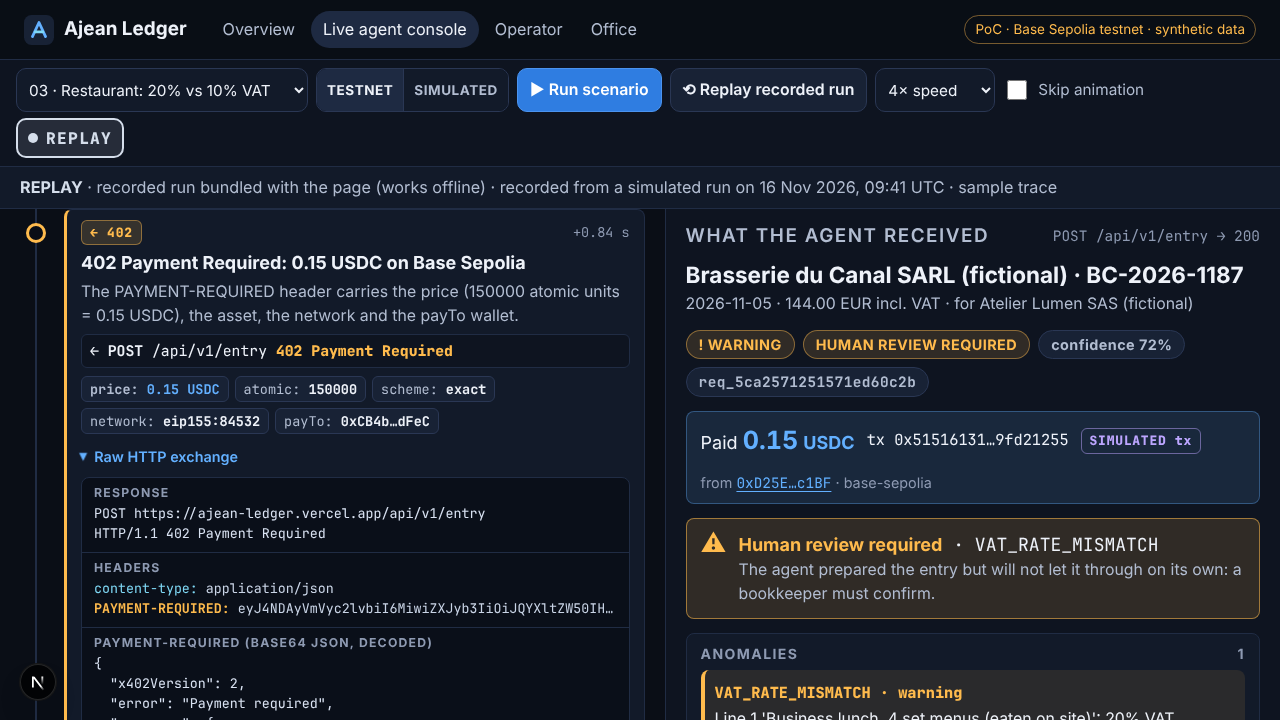
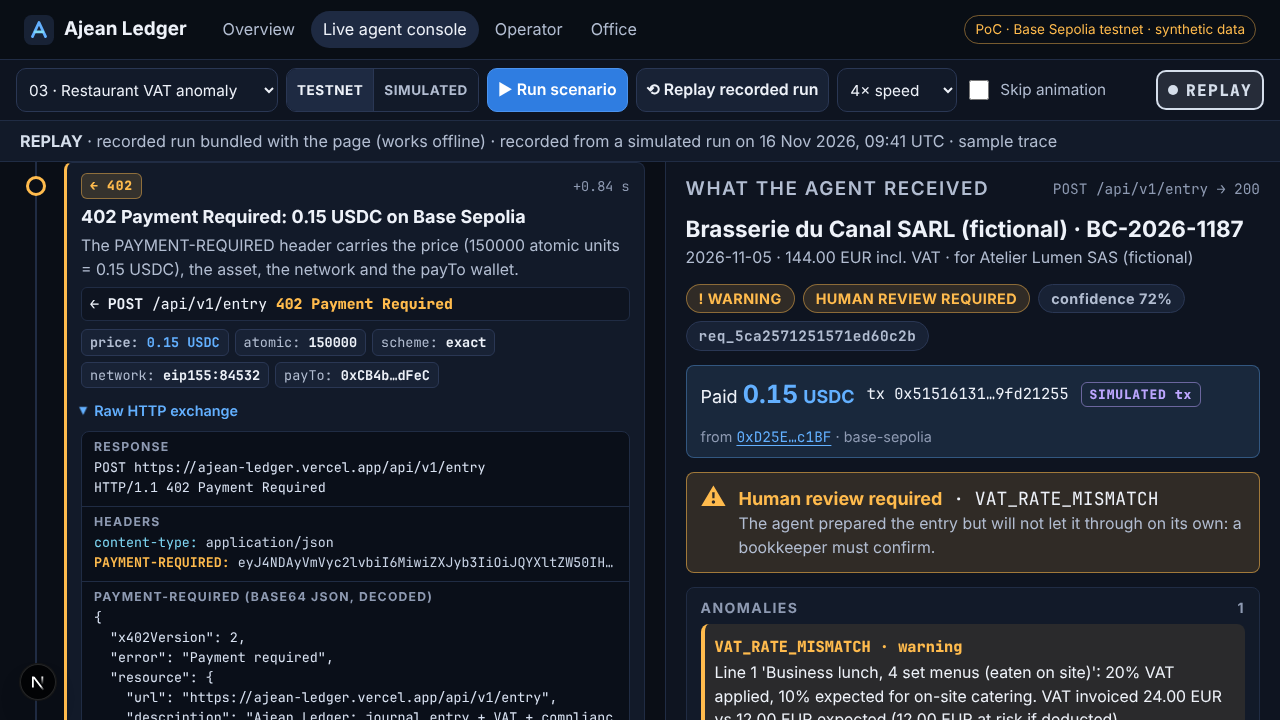
feat(engine): Phase 1 accounting engine — PCG/VAT rules, e-invoicing mentions, Factur-X/UBL/bank parsers, audit viewpoints, 13 fixtures
Claude-Session: https://claude.ai/code/session_017HXARNacDJcRScBQcpjH6w

diff --git a/lib/console/scenarios.ts b/lib/console/scenarios.ts
@@ -10,9 +10,9 @@ export interface Scenario {
 }
 
 export const SCENARIOS: Scenario[] = [
-  { id: "01", label: "01 · Office supplies (compliant)", takeaway: "Clean invoice → posted with no human in the loop." },
-  { id: "03", label: "03 · Restaurant: 20% vs 10% VAT", takeaway: "The VAT mistake a human would have missed → review flag." },
-  { id: "04", label: "04 · EU SaaS: reverse charge", takeaway: "German supplier, no VAT invoiced → self-assessed VAT, net cost zero." },
+  { id: "01", label: "01 · Office supplies, compliant", takeaway: "Clean invoice → posted with no human in the loop." },
+  { id: "03", label: "03 · Restaurant VAT anomaly", takeaway: "The VAT mistake a human would have missed → review flag." },
+  { id: "04", label: "04 · EU SaaS, reverse charge", takeaway: "German supplier, no VAT invoiced → self-assessed VAT, net cost zero." },
   { id: "06", label: "06 · Duplicate of invoice 01", takeaway: "Same invoice sent twice → DUPLICATE_SUSPECTED, not posted." },
 ];
 

diff --git a/app/globals.css b/app/globals.css
@@ -628,14 +628,15 @@ pre,
   max-width: 100%;
 }
 #scenario {
-  width: 292px;
+  width: 262px;
 }
 .controls .btn {
-  padding: 8px 12px;
+  padding: 8px 10px;
   font-size: 0.88rem;
 }
 .controls .mode-badge {
   padding: 6px 10px;
+  margin-left: auto;
 }
 @media (max-width: 1440px) {
   .controls .mode-sub {

diff --git a/docs/ENGINE.md b/docs/ENGINE.md
@@ -1,0 +1,217 @@
+# Ajean Ledger — accounting engine (Phase 1)
+
+Framework-free TypeScript in `engine/`. Same functions are used by the paid API, the MCP server, the demo agent and the CLI.
+**Rules first, LLM second:** structured inputs (JSON, Factur-X, UBL, bank transactions) are processed deterministically, with no network call. The LLM is only used for unstructured PDFs/images and for line descriptions the keyword classifier cannot place. In both cases the rules engine re-validates the LLM output.
+
+> Proof of concept on synthetic data. Not a substitute for a chartered accountant's review.
+
+## 1. Public API (`import … from "@/engine"`)
+
+| Export | Purpose |
+|---|---|
+| `createEntry(input, ctx?) → EntryResult` | `POST /api/v1/entry`: entry + VAT + compliance + anomalies + explanation |
+| `checkInvoice(input, ctx?) → CheckResult` | `POST /api/v1/invoice/check`: compliance + VAT consistency (no entry) |
+| `auditEntries(items, ctx?) → AuditResult` | `POST /api/v1/audit`: up to 50 items, two expert viewpoints |
+| `parseInput(input, ctx?)` | Parsed `{ invoice? , transaction?, candidate_invoices?, method, confidence }` |
+| `fingerprint(invoice)` | `InvoiceFingerprint` to store in history for duplicate detection |
+| `ENGINE_VERSION` (`"0.1.0"`), `DEMO_PROFILE` | Version; default client "Atelier Lumen SAS (fictional)", SIREN 902417351 (fictional, Luhn-valid) |
+| `EngineError {code, message, details}`, `ENGINE_ERROR_CODES` | Machine-readable errors (see §8) |
+| `EXPENSE_CATEGORIES`, `CATEGORY_IDS`, `classifyLine` | Category list and deterministic classifier |
+| `LEGAL_BASES`, `publicLegalBasis(id)` | Curated legal-basis table (references hidden until reviewed) |
+| `createAnthropicAdapter()` | `LlmAdapter`, or `undefined` when `ANTHROPIC_API_KEY` is absent |
+
+`ctx` (`EngineContext`): `profile` (default `DEMO_PROFILE`), `history` (fingerprints), `llm` (adapter), `materiality_threshold` (audit).
+
+### Contract changes (additive only)
+- `InvoiceFingerprint.document_type?` (optional): invoices and credit notes are never flagged as duplicates of each other.
+- `EngineContext.materiality_threshold?` (optional): overrides the audit materiality.
+- No field was renamed or removed. `EntryResult.review_reasons` holds machine-readable codes (list in §6).
+
+## 2. Pipeline
+
+```
+input ─► parseInput (zod / pdf-lib + CII / UBL / bank / LLM)
+      ─► classify each line (keywords → hint → LLM if uncertain)
+      ─► fixed-asset test (IT equipment ≥ EUR 500 excl. VAT per unit)
+      ─► VAT regime + deductibility per line
+      ─► entry builder (integer cents, debits = credits, credit notes reversed)
+      ─► mandatory-mention checks (FR-INV-*, FR-EINV-*)
+      ─► anomalies (rate mismatch, totals, duplicates, …)
+      ─► review reasons, confidence, explanation
+```
+
+Money: all amounts are integer cents internally (`engine/money.ts`). Outputs are numbers with 2 decimals. The invoiced VAT total is split across lines in proportion to the recomputed VAT (largest-remainder method), so the booked VAT always equals the invoiced VAT to the cent. The supplier is credited with the sum of the debits (minus self-assessed VAT), so every entry balances by construction. Any gap with the invoice's TTC is reported (`TOTALS_INCONSISTENT` / `SUPPLIER_TOTAL_MISMATCH`).
+
+## 3. Accounts (PCG, ANC 2014-03 as amended by ANC 2022-06)
+
+| Category id | Account | Label | Default VAT | Deductible |
+|---|---|---|---|---|
+| office_supplies | 6064 | Fournitures administratives | 20% | yes |
+| small_equipment | 6063 | Fournitures d'entretien et de petit équipement | 20% | yes |
+| it_equipment | **2183** if unit price ≥ 500 excl. VAT, else **6063** | Matériel de bureau et matériel informatique | 20% | yes (44562 on 2183) |
+| professional_fees | 6226 | Honoraires | 20% | yes |
+| legal_costs | 6227 | Frais d'actes et de contentieux | 20/0% | yes |
+| training | **6228** | Divers — frais de formation externe | 20% or exempt | yes |
+| seminars | 6185 | Frais de colloques, séminaires, conférences | 20% | yes |
+| travel | 6251 | Voyages et déplacements | 10/20/0% | **no** (passenger transport) |
+| missions | 6256 | Missions (staff accommodation) | 10% | **no** |
+| receptions | 6257 | Réceptions | **10%** (alcohol 20%) | yes (business interest) |
+| gifts | 6234 | Cadeaux à la clientèle | 20/5.5% | only ≤ EUR 73 incl. VAT per unit |
+| rent_premises | 6132 | Locations immobilières | 20/0% | yes |
+| rent_equipment | 6135 | Locations mobilières | 20% | yes |
+| vehicle_rental | 6135 | Locations mobilières — véhicule de tourisme | 20% | **no** |
+| software_subscription | **651** | Redevances pour … solutions informatiques | 20% | yes |
+| maintenance | 6156 | Maintenance | 20% | yes |
+| repairs | 615 | Entretien et réparation | 20/10% | yes |
+| documentation | 6181 | Documentation générale | 20/5.5/2.1% | yes |
+| telecom | 626 | Frais postaux et de télécommunications | 20/0% | yes |
+| advertising | 6231 | Annonces et insertions | 20% | yes |
+| printing | 6236 | Catalogues et imprimés | 20% | yes |
+| utilities | 6061 | Fournitures non stockables | 20/5.5% | yes |
+| insurance | 616 | Primes d'assurances | 0% | — |
+| bank_fees | 627 | Services bancaires et assimilés | 20/0% | yes |
+| *(no match)* | 628 | Divers | — | flagged `CLASSIFICATION_UNCERTAIN` |
+
+Other accounts: `44566` TVA déductible sur autres biens et services, `44562` TVA déductible sur immobilisations, `4452` TVA due intracommunautaire, `401` + auxiliary code, `512000` Banque, `471` Compte d'attente. Journals: `HA` purchases, `BQ` bank.
+
+**Why these choices.**
+- *Training → 6228.* The PCG has no dedicated account for external training purchased from a training body. 6228 ("Divers" under rémunérations d'intermédiaires et honoraires) is the most common practice. 6333 is the employer's *contribution* to vocational training (a tax), not a purchase. 6185 is kept for attendance at conferences and seminars.
+- *SaaS → 651.* Since ANC 2022-06, the label of 651 explicitly covers "solutions informatiques", so it fits software licences and SaaS better than 6135.
+- *Supplier auxiliary code.* `401` + the first significant word of the supplier name (legal forms, articles and "Cabinet/Maître" removed), extended with the next word while shorter than 4 characters, A–Z0–9, at most 8 characters: `401BURO`, `401BOUCHON`, `401FORMACOM`. A caller-supplied `supplier.account_code` takes precedence.
+- *Classifier.* Accent-folded keyword and phrase matching. Phrases count double. A category hint (`category_hint` = category id) gives 0.95, a single matched category 0.9, a clear winner 0.8, ties 0.55, no match 0.3. Below **0.75** the line is "uncertain": with `ctx.llm` the engine asks `classifyExpense`; without it, the line is flagged (`CLASSIFICATION_UNCERTAIN`, human review).
+
+## 4. VAT
+
+Regime detection (`engine/rules/vat.ts`):
+
+| Situation | `vat.regime` | Entry |
+|---|---|---|
+| FR supplier, single 20% rate | `standard` | expense HT / 44566 (or 44562) / 401 TTC |
+| FR supplier, single 10/5.5/2.1% rate | `reduced` | same |
+| several positive rates | `mixed_rates` | same, VAT split per line |
+| EU supplier, no VAT charged | `reverse_charge_intra_eu` | expense HT / 44566 (44562 for assets) **debit** self-assessed VAT / 4452 **credit** same amount / 401 HT. The self-assessment rate is the category's French rate (20% by default). Services: CGI 283-2; goods: intra-community acquisition (256 bis). |
+| FR supplier, all lines 0% | `exempt` | no VAT line. Legal basis: training (261-4-4° a), franchise (293 B) or generic exemption. |
+| non-EU supplier, no VAT | `out_of_scope` | + `NON_EU_SUPPLIER` warning (import VAT / reverse charge to be reviewed) |
+| bank transaction | `out_of_scope` | no VAT on the payment entry |
+
+- **Expected rate per category.** The engine compares each line's rate with the category's expected rates (exceptions: alcohol in a restaurant may be 20%). A mismatch raises `VAT_RATE_MISMATCH` (warning, human review) and states the excess VAT. **The VAT is booked as invoiced, never silently corrected** (ADR-008). Only the VAT legally due is deductible, so the tax-inspector viewpoint recommends reversing the excess or obtaining a corrected invoice.
+- **Non-deductible VAT** (staff accommodation, passenger transport, passenger vehicles, gifts above EUR 73, client under franchise, foreign VAT charged by an EU supplier) is added to the expense line, not to 44566.
+- **Services.** When a French supplier invoices services and has not opted for VAT on debits, `vat.note` reminds the agent that the VAT becomes deductible when the invoice is paid (CGI 269-2-c). The entry still uses 44566 (see open point 4).
+- **Totals.** Line total = qty × unit price (±0.01). Sum of lines = total excl. VAT (±0.01). Recomputed VAT per rate = invoiced VAT (±0.01 per rate). HT + VAT = TTC (±0.01).
+
+## 5. Mandatory mentions (`engine/rules/mentions.ts`)
+
+Severity `error` → `non_compliant`, only `warning` → `warning`, else `compliant`. Checks that do not apply are omitted (e.g. supplier SIREN for a German supplier).
+
+| rule_id | Check | Applies to |
+|---|---|---|
+| FR-INV-NUMBER, FR-INV-DATE | number, issue date | all |
+| FR-INV-SUPPLIER-NAME/-ADDRESS, FR-INV-CUSTOMER-NAME/-ADDRESS | parties | all |
+| FR-INV-SUPPLIER-SIREN | valid SIREN (Luhn) | FR supplier |
+| FR-INV-SUPPLIER-VATID | supplier VAT id (error if VAT charged or intra-EU, warning otherwise) | FR/EU supplier, not franchise |
+| FR-INV-CUSTOMER-VATID | customer VAT id | intra-EU reverse charge |
+| FR-INV-LINES-PRESENT, FR-INV-LINE-DESCRIPTION, FR-INV-LINE-QUANTITY, FR-INV-LINE-UNIT-PRICE | three distinct line mentions | all |
+| FR-INV-VAT-RATE | rate ∈ {20, 10, 5.5, 2.1, 0}% | all |
+| FR-INV-LINE-TOTALS, FR-INV-TOTAL-EXCL-VAT, FR-INV-VAT-AMOUNT, FR-INV-TOTAL-INCL-VAT | totals consistency | all |
+| FR-INV-VAT-EXEMPTION-MENTION | exemption / franchise mention when no VAT | FR supplier, VAT = 0 |
+| FR-INV-REVERSE-CHARGE-MENTION | "Autoliquidation" / "Reverse charge" | intra-EU reverse charge |
+| FR-INV-CREDIT-NOTE-REFERENCE | original invoice number | credit notes |
+| FR-INV-PAYMENT-DUE-DATE, FR-INV-LATE-PENALTIES, FR-INV-RECOVERY-INDEMNITY | C. com. L441-9 / L441-10 (B2B) | FR supplier |
+| FR-EINV-SIREN-BUYER | buyer SIREN | domestic B2B |
+| FR-EINV-OPERATION-NATURE | goods / services / mixed declared and consistent with line kinds (derived "mixed" when lines have both kinds) | domestic B2B |
+| FR-EINV-DELIVERY-ADDRESS | info only (cannot verify "different from billing address") | domestic, goods |
+| FR-EINV-VAT-ON-DEBITS | info only (absence = no option) | domestic, services |
+
+`FR-EINV-*` are `error` for invoices issued **on or after 2026-09-01** and `info` before (open point 1).
+
+## 6. Anomalies, review and confidence
+
+Anomaly codes: `VAT_RATE_MISMATCH`, `VAT_RATE_INVALID`, `TOTALS_INCONSISTENT`, `SUPPLIER_TOTAL_MISMATCH`, `CLASSIFICATION_UNCERTAIN`, `DUPLICATE_SUSPECTED`, `CUSTOMER_MISMATCH`, `FOREIGN_VAT_CHARGED`, `NON_EU_SUPPLIER`, `GIFT_VAT_THRESHOLD` (warning/error); `FIXED_ASSET_CAPITALISED`, `VAT_NOT_DEDUCTIBLE`, `REVERSE_CHARGE_SELF_ASSESSED`, `CASH_BASIS_CLIENT` (info); bank: `UNMATCHED_TRANSACTION`, `PARTIAL_MATCH`.
+
+`human_review_required` is true when `review_reasons` is non-empty. Possible reasons: `NON_COMPLIANT_INVOICE`, any warning/error anomaly code, `CASH_BASIS_CLIENT`, `LLM_EXTRACTION_LOW_CONFIDENCE` (LLM extraction confidence < 0.9), `UNBALANCED_ENTRY` (never expected).
+
+Duplicates (`ctx.history`): same supplier key (SIREN, else VAT id, else normalised name) + same normalised number, **or** same supplier + same total incl. VAT + issue dates within 5 days. Documents of different types never match.
+
+Confidence (deterministic): start 0.98; −0.04 per failed error check, −0.02 per failed warning check; −0.15 per error anomaly, −0.06 per warning anomaly; −0.15 per uncertain line; LLM extraction: min(score, extraction confidence) − 0.05; clamped to [0.05, 0.98].
+
+## 7. Inputs and parsers (`engine/parsers/`)
+
+| `format` | Parser | `extraction_method` |
+|---|---|---|
+| `json` | zod schema (`json.ts`). Credit notes may use negative amounts: they are normalised to positive. | `structured_json` |
+| `facturx` | pdf-lib reads the `factur-x.xml` (or `zugferd-invoice.xml`, `xrechnung.xml`) attachment from the EmbeddedFiles name tree or the catalog `/AF` array; `cii.ts` maps CII (fast-xml-parser) | `facturx_cii` |
+| `ubl` | `ubl.ts` (Invoice / CreditNote). A CII document sent as `ubl` is also accepted. | `ubl` (or `facturx_cii`) |
+| `bank_transaction` | `bank.ts` match: amount = invoice TTC (+0.5), invoice number in label/reference (+0.4), counterparty ≈ supplier (+0.2); matched at ≥ 0.6. BQ entry 401xxx / 512000 (money out) or 512000 / 401xxx (refund); unmatched → 471 + review. | `bank_transaction` |
+| `pdf` / `image` | A PDF is first tried as Factur-X. Otherwise it needs `ctx.llm` (else `LLM_UNAVAILABLE`). The LLM output is validated by the same zod schema and rules. | `llm` (+ `extraction_confidence`) |
+
+CII/UBL mapping notes: operation category from BT-23 (CII `BusinessProcessSpecifiedDocumentContextParameter/ID`, UBL `ProfileID`): `B*` goods, `S*` services, `M*` mixed (French framework codes, open point 6). Notes with subject `PMD` → late-payment penalties, `PMT` → EUR 40 indemnity, others → `legal_mentions`. CII `DueDateTypeCode` 5 → VAT-on-debits option, 72 → no option (open point 6).
+
+`fixtures/11.pdf` is generated by `npx tsx scripts/make-facturx.ts` (fixed dates, byte-reproducible): one visible page plus `factur-x.xml` with `AFRelationship /Alternative`. It is **not** a validated PDF/A-3 (no XMP Factur-X extension, no output intent). That is enough for parsing, but a real issuer would use a certified generator.
+
+LLM adapter (`engine/llm/anthropic.ts`): `@anthropic-ai/sdk`, model `ANTHROPIC_MODEL` (default `claude-sonnet-5-5`), structured JSON output (`output_config.format`), refusal handled. It is created only when `ANTHROPIC_API_KEY` is set. Tests use mock adapters (no network).
+
+## 8. Errors
+
+`EngineError.code` ∈ `INVALID_INPUT` (zod details `[{path, message}]`), `UNSUPPORTED_FORMAT`, `INVALID_PDF`, `FACTURX_XML_NOT_FOUND`, `INVALID_XML`, `LLM_UNAVAILABLE`, `LLM_OUTPUT_INVALID`, `BATCH_TOO_LARGE` (> 50), `EMPTY_BATCH`. `error.toJSON()` gives `{code, message, details?}`.
+
+## 9. Audit (`engine/audit.ts`)
+
+Items: `{ invoice }` (booked by the engine) or `{ entry }` (FEC-like, optional `supplier_key`, `invoice_number`, `total_incl_vat` for duplicates). Checks: duplicates across the batch (and `ctx.history`), unbalanced entries, suspense account 471, weekend dates, round amounts (≥ 1,000 and a multiple of 100), VAT ratio matching no French rate, 44566 used for fixed assets, 4452 ≠ deducted VAT, VAT deducted on excluded expenses (6251/6256).
+
+**Materiality choice.** Statutory-auditor materiality is normally set on annual benchmarks (1–2% of revenue, ~5% of pre-tax profit…). A batch of 50 entries carries none of them, and "1% of the batch total" would give absurd thresholds (EUR 5 on a EUR 500 batch). So the engine uses a **fixed overall materiality of EUR 5,000** for a small SME, which can be overridden with `ctx.materiality_threshold`. It also uses a **performance materiality of 75%** (EUR 3,750) and a **clearly-trivial threshold of 5%** (EUR 250). Entries above performance materiality are findings (`high` above overall materiality). The size of an anomaly relative to "clearly trivial" drives the risk.
+
+Viewpoints: `statutory_auditor` (existence/accuracy: duplicates, unbalanced, suspense, unmatched bank, non-compliant evidence, JET-style round/weekend, materiality) and `tax_inspector` (excess VAT from a wrong rate, deduction at risk on non-compliant invoices, double deduction from duplicates, VAT on excluded expenses, gifts, receptions, reverse-charge reporting, foreign VAT). `overall_risk` is the highest finding risk.
+
+## 10. Fixture 9 — lawyer client (BNC, cash basis): reasoning
+
+Team decision: the **lawyer is the client whose books we keep** (`activity: "bnc"`, `accounting_basis: "cash"`, standard VAT). She receives a fee invoice from a fellow lawyer (postulation fees, 800.00 + 20% VAT).
+- Under BNC, profit is computed on a receipts-expenses basis: the expense is recognised when **paid**, in the receipts-expenses ledger (livre-journal), not when the invoice is received. The engine still proposes the purchase view (6226 Honoraires 800.00 / 44566 160.00 / 401VASSEUR 960.00), because an agent needs a structured result. It flags `human_review_required` with `CASH_BASIS_CLIENT` and explains that the entry is recorded at the payment date (the bank transaction, fixture-12 style, is then the recognition event).
+- VAT: these are services and the supplier has not opted for VAT on debits, so the VAT is deductible when the invoice is paid (`vat.note`).
+- 6226 is used because a fee for a mandate performed for the client firm is an operating expense. If the amount is a *rétrocession d'honoraires* or a *débours* re-billed to the end client, the 2035 presentation differs (see open point 5).
+
+## 11. Fixtures
+
+| # | Scenario | Key result |
+|---|---|---|
+| 01 | Office supplies 20% | 6064 140.00 / 44566 28.00 / 401BURO 168.00, compliant |
+| 02 | #1 without buyer SIREN | non_compliant (FR-EINV-SIREN-BUYER), review |
+| 03 | Restaurant at 20% instead of 10% | 6257 146.00 / 44566 29.20 / 401BOUCHON 175.20, VAT_RATE_MISMATCH (excess 14.60), review |
+| 04 | German consulting services, reverse charge | 6226 2200.00 / 44566 440.00 / 4452 (440.00) / 401KRANICH (2200.00) |
+| 05 | Exempt training | 6228 1200.00 / 401FORMACOM (1200.00), regime exempt |
+| 06 | Duplicate of #1 (history) | DUPLICATE_SUSPECTED, review |
+| 07 | Partial credit note on #1 | 401BURO 54.00 / 6064 (45.00) / 44566 (9.00) |
+| 08 | Laptop 1,450 + mouse 29 | 2183 1450.00 / 6063 29.00 / 44562 290.00 / 44566 5.80 / 401NUMERIA (1774.80) |
+| 09 | Lawyer client, colleague's fees | 6226 800.00 / 44566 160.00 / 401VASSEUR (960.00), CASH_BASIS_CLIENT review |
+| 10 | Mixed goods + services | 6064 190.00 / 6156 210.00 / 44566 80.00 / 401COPILAB (480.00), nature mixed |
+| 11 | Factur-X PDF of #1 | identical to #1, `facturx_cii` |
+| 12 | Bank payment of #1 | BQ 401BURO 168.00 / 512000 (168.00), match score 1 |
+| 13 | UBL 2.1 of #10 (bonus) | identical to #10, `ubl` |
+
+Expected outputs: `fixtures/expected/NN.expected.json`. Tests: `tests/fixtures.test.ts` (each fixture + determinism) and `tests/engine.test.ts` (money/balance, mentions, classification, VAT deductibility, duplicates, parsers/errors, LLM mocks, bank, audit, legal bases).
+
+## 12. CLI
+
+```bash
+npm run engine -- fixtures/03.json                   # EntryResult
+npm run engine -- fixtures/02.json --check           # CheckResult
+npm run engine -- --audit fixtures/01.json fixtures/03.json fixtures/06.json
+npm run engine -- fixtures/11.pdf                    # Factur-X PDF
+npm run engine -- fixtures/13.ubl.xml                # UBL (or CII) XML
+npx tsx scripts/make-facturx.ts                      # regenerate fixtures/11.pdf
+```
+A fixture's `context` (profile, history) is applied. `--no-llm` disables the LLM even when `ANTHROPIC_API_KEY` is set. Engine errors are printed as `{"error": {code, message, details}}` with exit code 2.
+
+## 13. Open points for Ary
+
+1. **Reform mentions: start date.** `FR-EINV-*` (buyer SIREN, operation category, delivery address, VAT-on-debits option) are `error` from 2026-09-01 for all domestic B2B invoices. Please confirm whether they apply from 1 Sept 2026 to every issuer or only once the issuer is in scope of e-invoicing (1 Sept 2027 for SMEs/micro). If the latter, they should be `warning` for SME issuers until then.
+2. **Wrong-rate restaurant invoice (fixture 03).** We book the invoiced VAT (29.20) in 44566 and flag it, without correcting it (ADR-008). Strictly, only 14.60 is deductible. Should the engine instead propose 44566 14.60 + 6257 160.60 and still flag?
+3. **Training account.** 6228 vs 6185 / 618x for external training: confirm the firm's preferred account.
+4. **VAT on services not yet paid.** Accrual entries use 44566 directly. Some firms use a "TVA déductible en attente" sub-account (e.g. 44568x) until payment. Should a sub-account be added for services from suppliers taxed on receipts?
+5. **Fixture 09 (BNC).** Confirm the treatment of fees invoiced by a fellow lawyer: operating expense (6226 / 2035 "honoraires") vs *rétrocession* deducted from receipts, or *débours*. Also confirm that proposing an accrual-style entry with review is the right output for a cash-basis client, rather than waiting for the payment.
+6. **Factur-X / UBL codes.** BT-23 framework codes (B1/S1/M1) for the operation category, and CII `DueDateTypeCode` 5/72 for the VAT-on-debits option: to verify against the final French external specifications.
+7. **Credit notes.** Returns and cancellations credit the original expense account (6064). Should commercial discounts (rabais/remises) go to 609x instead? The engine cannot tell them apart today.
+8. **Gifts.** The EUR 73 threshold is applied per unit, not per beneficiary per year (the engine cannot know the beneficiary).
+9. **SaaS.** 651 (new PCG label) vs 6135 / 6156: confirm.
+10. **Self-assessment rate (reverse charge).** The engine uses the category's French rate (20% by default). Reduced-rate services from EU suppliers would need a hint.
+11. **Materiality.** Fixed EUR 5,000 (override per call). Confirm the default for the demo SME.
+12. Every legal reference is listed in `docs/LEGAL_REVIEW.md`. None is exposed until `reviewed_by` is filled.

diff --git a/docs/CONSOLE.md b/docs/CONSOLE.md
@@ -1,0 +1,86 @@
+# Demo console (UI)
+
+The console is **not the product**: it is a window into agent-to-agent traffic. Everything it shows is
+what an AI agent sent to, paid and received from the Ajean Ledger API. Plain CSS (`app/globals.css`),
+inline SVG, no UI library, no external font or CDN. It is dark, readable on a projector (18 px base) and
+works from 1280×720 down to mobile.
+
+## Pages
+
+| Route | File | What it shows |
+|---|---|---|
+| `/` | `app/page.tsx` | Pitch, "Built for agents, not humans", 4-step x402 flow diagram (`components/FlowDiagram.tsx`), a real request/response excerpt (taken from replay 03), pricing table (`components/PricingTable.tsx`, prices read from `lib/payments/pricing.ts`), discovery links (`/llms.txt`, `/openapi.json`, `/.well-known/agent.json`, `/api/v1/catalog`, `/mcp`), team and PoC disclaimer. |
+| `/live` | `app/live/page.tsx` → `components/live/LiveConsole.tsx` | Live Agent Console. Left: the agent's timeline (`TraceStepItem.tsx`), revealed step by step, with kind badges, inline x402 highlights and an expandable raw HTTP exchange (headers, base64 `PAYMENT-*` headers decoded to JSON, pretty body). Right: the structured result (`ResultPanel.tsx`): compliance pill, review banner, anomalies, mini-ledger with totals and "balanced ✓", VAT treatment, explanation, checks (failed first), receipt with tx hash (explorer link, or a "SIMULATED tx" label). |
+| `/operator` | `components/operator/OperatorDashboard.tsx` | KPIs (calls, USDC earned, average price per call, % needing human review), revenue per endpoint (CSS bars), recent transactions (time, endpoint, payer wallet, amount, tx hash link, mode). |
+| `/office` | `app/office/page.tsx` | Small CSS-only nod to Ajean's virtual office (agents arrive, pay, leave with a document). No JS. |
+
+### `/live` controls
+- **Scenario**: 01 compliant office supplies, 03 restaurant VAT 20% instead of 10%, 04 intra-EU SaaS (reverse charge), 06 duplicate of 01 (`lib/console/scenarios.ts`).
+- **TESTNET / SIMULATED**: payment mode requested from the live agent.
+- **Run scenario**: live run through the demo agent (with automatic fallback, see below).
+- **Replay recorded run**: plays a stored trace directly.
+- **Speed** (0.5× to 4×) and **Skip animation**.
+- **Mode badge**, always visible: TESTNET (green, real test USDC), SIMULATED (violet, mock facilitator), REPLAY (grey, recorded run).
+- While a live call is pending: an elapsed counter (timeout 45 s) and a **Use recorded run now** button.
+- Presenter URL shortcuts: `/live?scenario=03&autoplay=replay&speed=2`, `&autoplay=run&mode=simulated`, `&skip=1`.
+
+## Data sources and fallback ladder
+
+All `/live` data access goes through **one module**, `lib/console/source.ts`. It never throws.
+
+```
+runScenario(scenario, mode)                       loadReplay(scenario)
+  1. POST /api/demo/run {scenario, mode}            1. GET /api/demo/replays?scenario=XX  (4 s timeout)
+     timeout 45 s → AgentTrace (live)               2. static import demo/replays/XX.json (always works)
+  2. on ANY failure → loadReplay(scenario)
+     + notice "Live call failed → showing recorded run (REPLAY)"
+```
+
+"Any failure" = network error, timeout, non-2xx, a payload that is not an `AgentTrace`, or a trace
+with `outcome: "error"`. Replays are always displayed with `mode: "REPLAY"`, and the notice line says
+where the trace came from (replay API or bundled file), when it was recorded and whether it is a sample.
+
+The API returns the whole trace at once; the console animates it client side (it does not need a stream).
+
+`/operator` uses `lib/console/stats.ts`:
+1. `GET /api/v1/operator/stats` (5 s timeout);
+2. if it fails, has an unexpected shape, or reports **0 calls** (fresh deployment), the stats are
+   computed from the bundled replays and labelled **"source: recorded replays"**.
+
+## How replays are loaded
+
+`lib/console/replays.ts` statically imports `demo/replays/01.json`, `03.json`, `04.json`, `06.json`. They
+are bundled into the page, so `/live` (Replay) and `/operator` work with no backend at all, including on
+a static host.
+
+The current files are **sample traces** (`"sample": true`, `recorded_from: "simulated"`, simulated
+`0x5151…` tx hashes, no explorer link). They follow the x402 v2 wire format (`PAYMENT-REQUIRED`,
+`PAYMENT-SIGNATURE`, `PAYMENT-RESPONSE` as base64 JSON, `eip155:84532`, 150000 atomic units, test
+USDC `0x036C…CF7e`, payTo `0xCB4b…dFeC`, agent `0xD25E…c1BF`) and the receipt shape of
+`lib/payments/receipt.ts`. Overwrite them with real recorded runs (same file names, `AgentTrace` JSON);
+nothing else needs to change. A real testnet receipt (`mode: "testnet"`, `explorer_url` set) shows a
+Base Sepolia explorer link instead of the "SIMULATED tx" label.
+
+## Contracts the other workstreams provide
+
+| Endpoint | Request | Response |
+|---|---|---|
+| `POST /api/demo/run` | `{"scenario": "01"\|"03"\|"04"\|"06", "mode": "testnet"\|"simulated"}` | `AgentTrace` (`lib/trace/types.ts`), or `{trace: AgentTrace}`. `mode` = `TESTNET`/`SIMULATED`. `result` = the `/api/v1/entry` body (EntryResult + `request_id` + `receipt`). Must answer within 45 s. |
+| `GET /api/demo/replays?scenario=XX` | — | `AgentTrace` (or `{trace}` / an array of traces). Optional: without it the bundled files are used. |
+| `GET /api/v1/operator/stats` | — | Either `{calls, usdc_earned, by_endpoint:[{endpoint, calls, usdc}], recent:[{request_id, at, endpoint, payer, amount, tx_hash, explorer_url, mode, human_review_required?}], source, review_required?}` or the store's `StoreStats` (`calls_served`, `revenue_per_endpoint`, `recent_transactions`, `store`). The "% needing human review" KPI needs `review_required` (count) or `recent[].human_review_required`; otherwise it shows "—". |
+| `/llms.txt`, `/openapi.json`, `/.well-known/agent.json`, `/api/v1/catalog`, `/mcp` | — | Linked from the landing page. |
+
+Timeline rendering relies on `TraceStep.kind`, `title`, `detail`, `t_ms`, `http` (`method`, `url`,
+`status`, `headers`, `body`, `decoded`) and, for chips, these `data` keys: policy (`decision`,
+`price_usdc`, `max_per_call_usdc`, `spent_today_usdc`, `daily_budget_usdc`), payment (`amount_usdc`,
+`from`, `to`…), settlement (`tx_hash`, `explorer_url`, `request_id`), erp (`erp_file`, `status`,
+`journal`, `reference`, `lines`), review (`review_reasons`). The result panel appears when the first
+`http_response` with status 200 on a POST is revealed.
+
+## Verification
+
+- `npx vitest run tests/console.test.ts`: replays are valid and balanced, x402 headers decode, and every
+  rung of the fallback ladder (failure, timeout, replay API, live, malformed payload) plus the stats
+  normaliser.
+- Screenshots at 1280×720 in `docs/screenshots/` (`landing.png`, `live-replay-03.png`,
+  `live-402-expanded.png`, `live-run-fallback-04.png`, `operator.png`, `office.png`, `mobile-live.png`).

diff --git a/engine/README.md b/engine/README.md
@@ -1,5 +1,8 @@
 # engine/
 
 Framework-free accounting engine. Public API in `engine/index.ts`:
-`createEntry(input, ctx)`, `checkInvoice(input, ctx)`, `auditEntries(items, ctx)`.
+`createEntry(input, ctx)`, `checkInvoice(input, ctx)`, `auditEntries(items, ctx)`, `parseInput`, `fingerprint`, `EngineError`, `DEMO_PROFILE`, `ENGINE_VERSION`.
 Contract types in `engine/types.ts` (do not change field names without updating all consumers).
+
+Layout: `core.ts` (pipeline), `audit.ts`, `entry.ts`, `money.ts`, `rules/` (pcg, vat, mentions, duplicates, legal-basis), `parsers/` (json, facturx, cii, ubl, bank), `llm/anthropic.ts`.
+Full documentation: `docs/ENGINE.md`. Legal references to review: `docs/LEGAL_REVIEW.md`.
